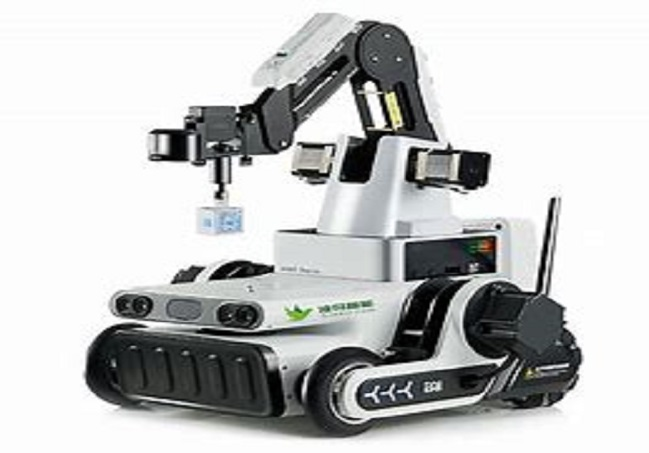
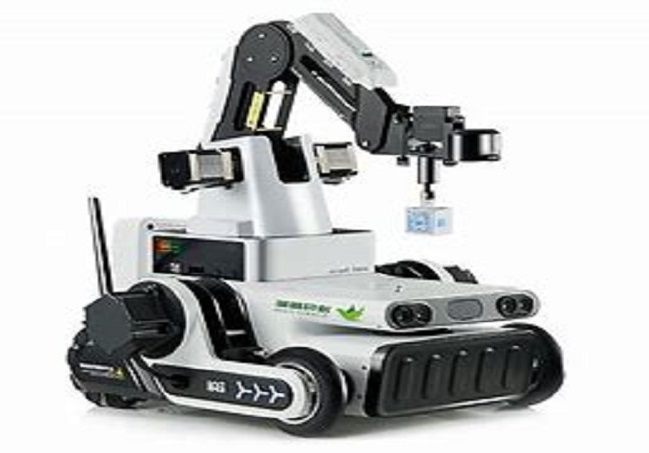
修改机器人方向问题

diff --git a/src/views/components/Mapping/Scheme2/index.vue b/src/views/components/Mapping/Scheme2/index.vue
@@ -5,6 +5,8 @@ import type { Layer } from 'konva/lib/Layer';
 import type { Stage } from 'konva/lib/Stage';
 import robotCar from '@/assets/robotCar.png'
 import arms from '@/assets/arms.png'
+import robotCarReverse from '@/assets/robotCarReverse.png'
+import armsReverse from '@/assets/armsReverse.png'
 import shelf from '@/assets/shelf.png'
 import goods from '@/assets/goods.png'
 import { getRobotCar, getClamp, getArmsShelf } from './api';
@@ -54,6 +56,7 @@ const taskProgress = ref<string>()
 watch(() => isTransFinish.value, (value) => {
     // 运输完成，返回
     goodsIcon.value = createGoods(path[path.length - 1][0], path[path.length - 1][1])
+    imageSrc.value = robotCarReverse
     animation(path.slice().reverse())
 
     imageSrc.value = arms
@@ -64,6 +67,7 @@ watch(() => isTransFinish.value, (value) => {
 watch(() => isClampFinish.value, (value) => {
     goodsIcon.value.remove()
     // 开始运输上架
+    imageSrc.value = armsReverse
     animation(path3)
 })
 
@@ -72,6 +76,7 @@ watch(() => isShlefFinish.value, (value) => {
         // 上架完成，返回
         goodsIcon.value = createGoods(path3[path3.length - 1][0], path3[path3.length - 1][1])
         const reversePath = [...path3.slice().reverse(), ...path2.slice().reverse()]
+        imageSrc.value = arms
         animation(reversePath)
     }
 })

diff --git a/src/views/components/Mapping/Scheme1/index.vue b/src/views/components/Mapping/Scheme1/index.vue
@@ -5,6 +5,8 @@ import type { Layer } from 'konva/lib/Layer';
 import type { Stage } from 'konva/lib/Stage';
 import robotCar from '@/assets/robotCar.png'
 import armsRobot from '@/assets/armsRobots.png'
+import robotCarReverse from '@/assets/robotCarReverse.png'
+import armsRobotReverse from '@/assets/armsRobotsReverse.png'
 import shelf from '@/assets/shelf.png'
 import goods from '@/assets/goods.png'
 import { getRobotCar, getArmsRobot, getArmsRobot2 } from './api';
@@ -55,6 +57,7 @@ const robotsType: numStrKey = {
 watch(() => isGetGoodsFinish.value, (value) => {
   if(value) {
     // 货物搬运完成，返回
+    imageSrc.value = robotCarReverse
     animation(path.slice().reverse())
     goodsIcon.value = createGoods(path[path.length - 1][0], path[path.length - 1][1])
     // 开始装载
@@ -79,6 +82,7 @@ watch(() => isShlefFinish.value, (value) => {
   if(value) {
     goodsIcon.value = createGoods(path3[path3.length - 1][0], path3[path3.length - 1][1])
     const reversePath = [...path3.slice().reverse(), ...path2.slice().reverse()]
+    imageSrc.value = armsRobotReverse
     animation(reversePath)
   }
 })
